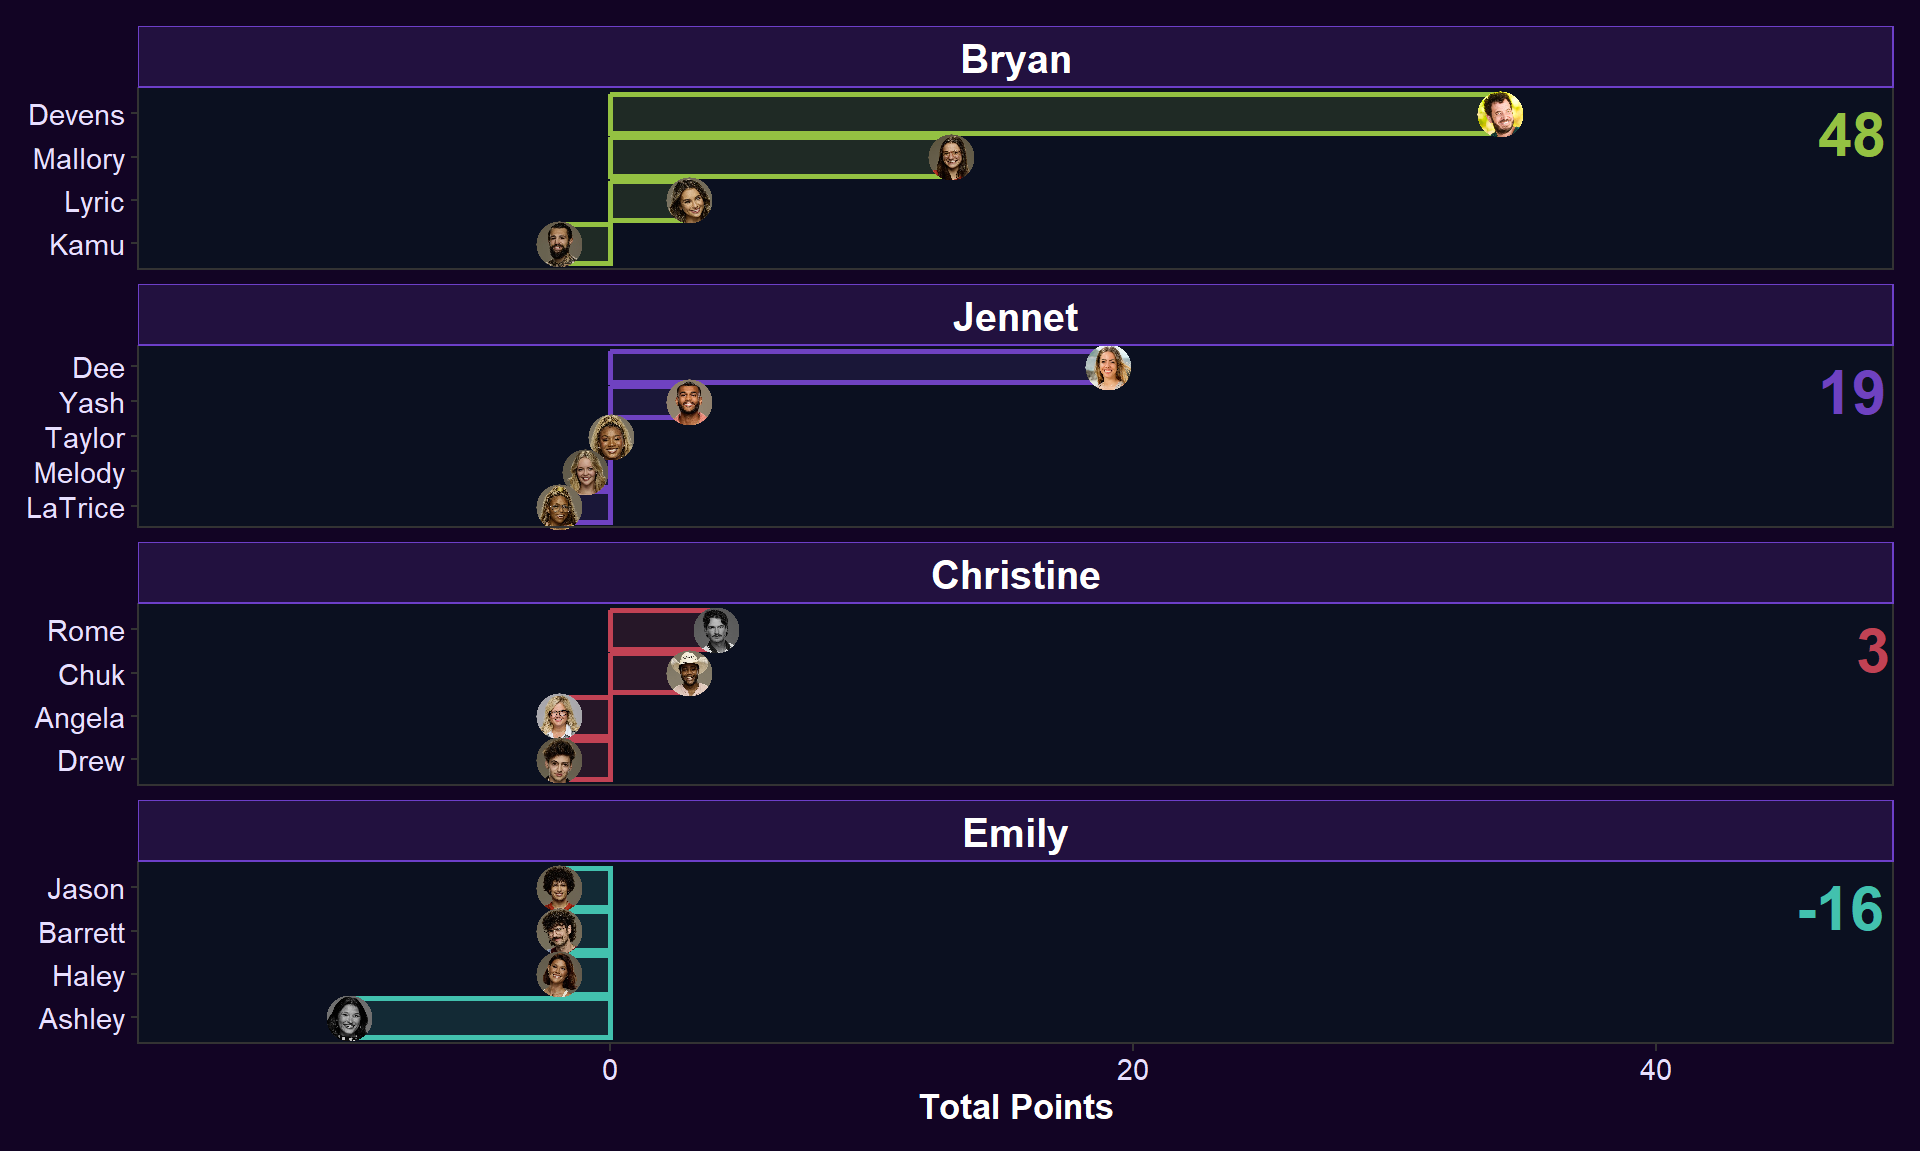
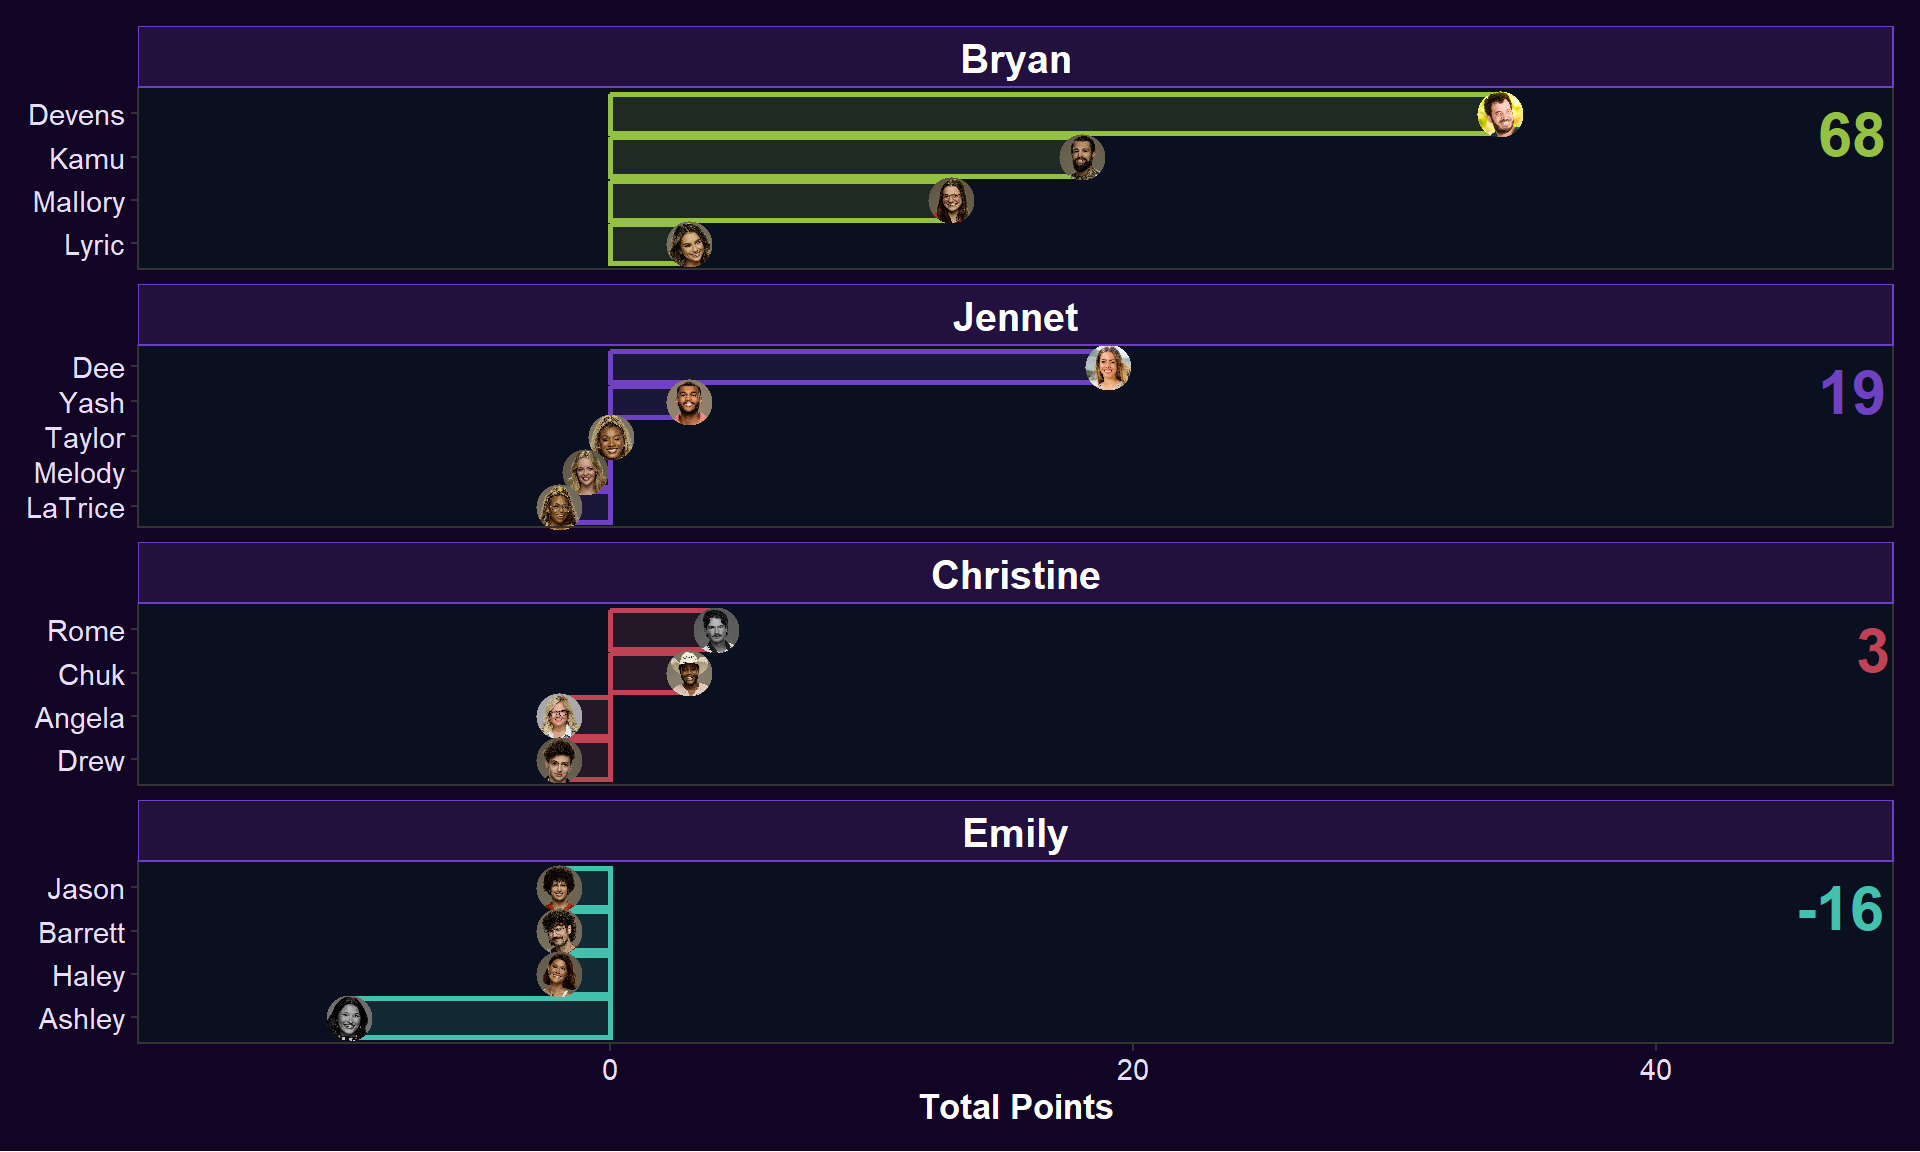
HOH 3

Changed region(s): [[0.2812, 0.0938, 0.5938, 0.25], [0.0, 0.125, 0.0625, 0.2188], [0.9375, 0.0938, 0.9688, 0.125]]

diff --git a/index.html b/index.html
@@ -117,7 +117,7 @@ grid-auto-rows: minmax(0, 1fr);">
 <tbody>
 <tr class="odd">
 <td style="text-align: left;">Bryan</td>
-<td style="text-align: right;">1</td>
+<td style="text-align: right;">2</td>
 <td style="text-align: right;">2</td>
 <td style="text-align: right;">0</td>
 <td style="text-align: right;">2</td>
@@ -725,6 +725,14 @@ grid-auto-rows: minmax(0, 1fr);">
 <td style="text-align: left;">Bryan</td>
 <td style="text-align: left;">Shoutout During Live Evicition</td>
 <td style="text-align: right;">-1</td>
+</tr>
+<tr class="odd">
+<td style="text-align: left;">July 24 2026</td>
+<td style="text-align: right;">3</td>
+<td style="text-align: left;">Kamu</td>
+<td style="text-align: left;">Bryan</td>
+<td style="text-align: left;">Wins HOH</td>
+<td style="text-align: right;">20</td>
 </tr>
 </tbody>
 </table>
